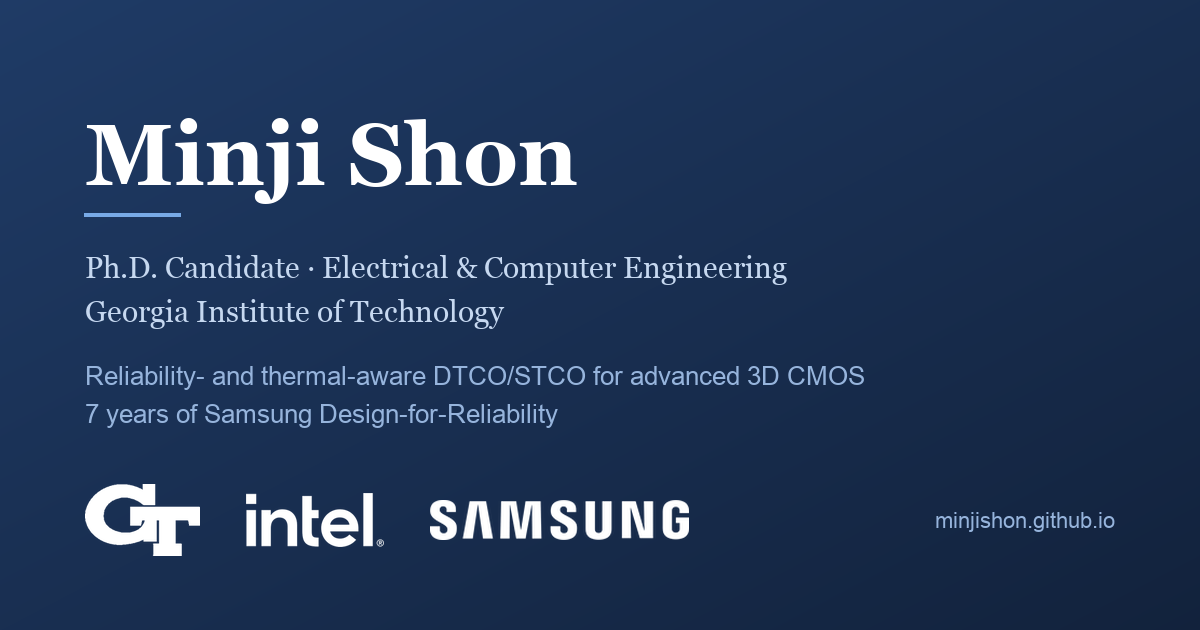
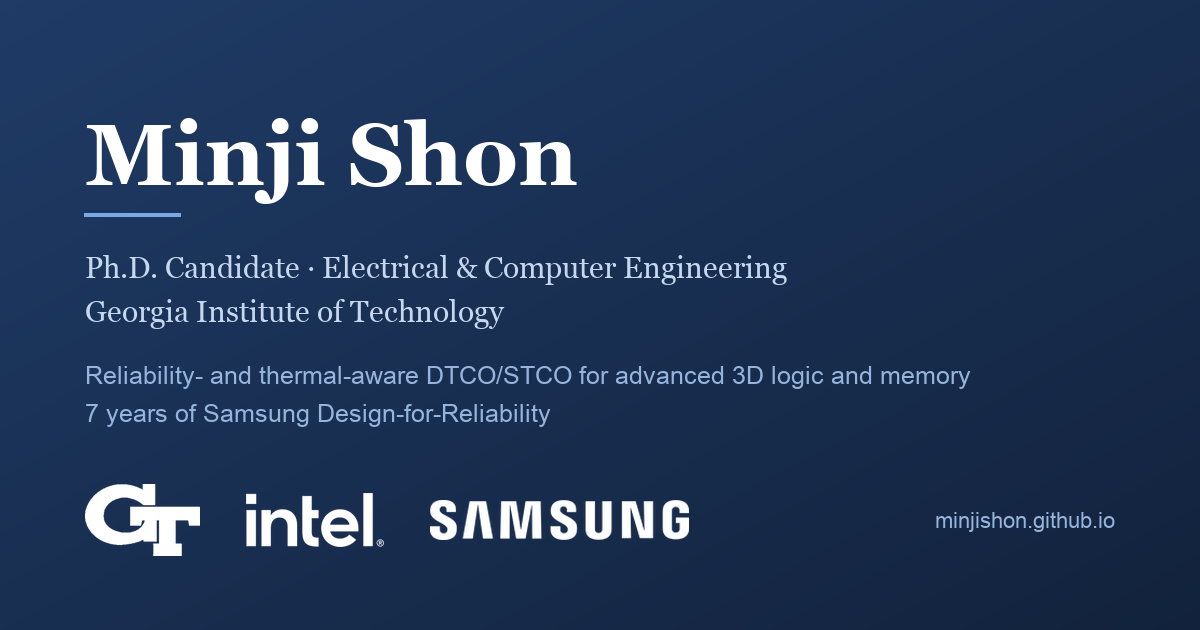
Site: add in-progress papers, align focus wording with CV
- publications.html: add MATRIX-A5 (JXCDC, under review) and the DeepSim
  electro-thermal paper (IRPS'27, in preparation), using the previously unused
  .badge-prep style. Existing entries renumbered, which now makes the site's
  reference keys match the CV's exactly (L1-L4, F1-F4, R1-R3).
- 'advanced 3D CMOS' -> 'advanced 3D logic and memory' to match the CV summary;
  kept '(CFET, GAA nanosheet)' in the meta tags as search keywords.
- Regenerated og-card.png for the new wording.

Changed region(s): [[0.0617, 0.573, 0.8017, 0.6937]]

diff --git a/publications.html b/publications.html
@@ -62,6 +62,15 @@
       <div class="pub" id="L1">
         <div class="pub-id">[L1]</div>
         <div>
+          <div class="pub-title">MATRIX-A5: An Open-Source CFET PDK with CfetFlex Track-Mixing Libraries for RTL-to-GDS DTCO<span class="badge badge-prep">Under review</span></div>
+          <div class="pub-authors"><span class="me">Shon, M.</span>*, Lim, S.*, et al., Yu, S.</div>
+          <div class="pub-venue"><span class="venue-name">JXCDC</span>, 2026</div>
+        </div>
+      </div>
+
+      <div class="pub" id="L2">
+        <div class="pub-id">[L2]</div>
+        <div>
           <div class="pub-title">DTCO of Multi-Tier CFETs: Ultimate Logic and SRAM Scaling of A5 Technology and Beyond</div>
           <div class="pub-authors"><span class="me">Shon, M.</span>*, Lim, S.*, Yu, S.</div>
           <div class="pub-venue"><span class="venue-name">IEDM</span>, 2025</div>
@@ -71,8 +80,8 @@
         </div>
       </div>
 
-      <div class="pub" id="L2">
-        <div class="pub-id">[L2]</div>
+      <div class="pub" id="L3">
+        <div class="pub-id">[L3]</div>
         <div>
           <div class="pub-title">3-Tier SRAM Complementary FET (CFET) High Density (HD) Cell Design at A5 Node</div>
           <div class="pub-authors">Lim, S., <span class="me">Shon, M.</span>, Yu, S.</div>
@@ -83,8 +92,8 @@
         </div>
       </div>
 
-      <div class="pub" id="L3">
-        <div class="pub-id">[L3]</div>
+      <div class="pub" id="L4">
+        <div class="pub-id">[L4]</div>
         <div>
           <div class="pub-title">3D Digital Compute-in-Memory Benchmark with A5 CFET Technology: An Extension to Look-up-Table Based Design</div>
           <div class="pub-authors">Lee, J.*, <span class="me">Shon, M.</span>*, et al., Yu, S.</div>
@@ -159,6 +168,15 @@
       <div class="pub" id="R1">
         <div class="pub-id">[R1]</div>
         <div>
+          <div class="pub-title">AI-Accelerated and Layout-Resolved Electro-Thermal Analysis for Multi-Tier CFET<span class="badge badge-prep">In preparation</span></div>
+          <div class="pub-authors"><span class="me">Shon, M.</span>*, McClellan, C. J.*, et al., Yu, S.</div>
+          <div class="pub-venue"><span class="venue-name">IRPS</span>, 2027</div>
+        </div>
+      </div>
+
+      <div class="pub" id="R2">
+        <div class="pub-id">[R2]</div>
+        <div>
           <div class="pub-title">Self-Heating in GAA Nanosheet FETs with Integrated Back Side Power Delivery Network: Device to Circuit Electro-Thermal Analysis and Implications</div>
           <div class="pub-authors">Dutta, R.*, <span class="me">Shon, M.</span>*, et al., Datta, S.</div>
           <div class="pub-venue"><span class="venue-name">IRPS</span>, 2026</div>
@@ -168,8 +186,8 @@
         </div>
       </div>
 
-      <div class="pub" id="R2">
-        <div class="pub-id">[R2]</div>
+      <div class="pub" id="R3">
+        <div class="pub-id">[R3]</div>
         <div>
           <div class="pub-title">Aging-Aware Design Verification Methods Under Real Product Operating Conditions</div>
           <div class="pub-authors">Shim, H., Jo, J., Kim, Y., Jeong, B., <span class="me">Shon, M.</span>, et al., Pae, S.</div>

diff --git a/index.html b/index.html
@@ -4,14 +4,14 @@
 <meta charset="utf-8">
 <meta name="viewport" content="width=device-width, initial-scale=1">
 <title>Minji Shon — Ph.D. Candidate, ECE @ Georgia Tech</title>
-<meta name="description" content="Minji Shon — Ph.D. candidate in ECE at Georgia Tech working on reliability- and thermal-aware DTCO/STCO for advanced 3D CMOS (CFET, GAA nanosheet), with 7 years of Samsung Design-for-Reliability experience.">
+<meta name="description" content="Minji Shon — Ph.D. candidate in ECE at Georgia Tech working on reliability- and thermal-aware DTCO/STCO for advanced 3D logic and memory (CFET, GAA nanosheet), with 7 years of Samsung Design-for-Reliability experience.">
 <meta name="author" content="Minji Shon">
 <link rel="canonical" href="https://minjishon.github.io/">
 
 <!-- Open Graph -->
 <meta property="og:type" content="website">
 <meta property="og:title" content="Minji Shon — Ph.D. Candidate, ECE @ Georgia Tech">
-<meta property="og:description" content="Reliability- and thermal-aware DTCO/STCO for advanced 3D CMOS (CFET, GAA nanosheet). Ph.D. candidate at Georgia Tech; 7 years of Samsung Design-for-Reliability.">
+<meta property="og:description" content="Reliability- and thermal-aware DTCO/STCO for advanced 3D logic and memory (CFET, GAA nanosheet). Ph.D. candidate at Georgia Tech; 7 years of Samsung Design-for-Reliability.">
 <meta property="og:url" content="https://minjishon.github.io/">
 <meta property="og:image" content="https://minjishon.github.io/assets/og-card.png">
 <meta property="og:image:width" content="1200">
@@ -34,7 +34,7 @@
   "image": "https://minjishon.github.io/assets/Minji_Shon.jpg",
   "jobTitle": "Ph.D. Candidate, Electrical and Computer Engineering",
   "email": "mailto:mshon6@gatech.edu",
-  "description": "Ph.D. candidate in ECE at Georgia Tech working on reliability- and thermal-aware DTCO/STCO for advanced 3D CMOS, with seven years of Samsung Design-for-Reliability experience.",
+  "description": "Ph.D. candidate in ECE at Georgia Tech working on reliability- and thermal-aware DTCO/STCO for advanced 3D logic and memory, with seven years of Samsung Design-for-Reliability experience.",
   "affiliation": {
     "@type": "CollegeOrUniversity",
     "name": "Georgia Institute of Technology",
@@ -99,7 +99,7 @@
         <h1>Minji Shon</h1>
         <p class="tagline">
           Ph.D. candidate in Electrical &amp; Computer Engineering at Georgia Tech, working on
-          <strong>reliability- and thermal-aware DTCO/STCO</strong> for advanced 3D CMOS — backed by
+          <strong>reliability- and thermal-aware DTCO/STCO</strong> for advanced 3D logic and memory — backed by
           <strong>7 years of Samsung Design-for-Reliability</strong> across 14 nm to 3 nm nodes.
         </p>
 

diff --git a/make_og_card.py b/make_og_card.py
@@ -22,7 +22,7 @@ SANS    = "/System/Library/Fonts/Supplemental/Arial.ttf"
 NAME      = "Minji Shon"
 SUBTITLE  = ["Ph.D. Candidate · Electrical & Computer Engineering",
              "Georgia Institute of Technology"]
-DESC      = ["Reliability- and thermal-aware DTCO/STCO for advanced 3D CMOS",
+DESC      = ["Reliability- and thermal-aware DTCO/STCO for advanced 3D logic and memory",
              "7 years of Samsung Design-for-Reliability"]
 URL       = "minjishon.github.io"
 LOGOS     = [("assets/logos/gatech.png", 72),
@@ -70,7 +70,7 @@ def main():
     # sizes calibrated against the original card's measured text widths
     f_name = ImageFont.truetype(SERIF_B, fit(SERIF_B, NAME, 497))
     f_sub  = ImageFont.truetype(SERIF,   fit(SERIF, SUBTITLE[1], 432))
-    f_desc = ImageFont.truetype(SANS,    fit(SANS, DESC[0], 825))
+    f_desc = ImageFont.truetype(SANS,    fit(SANS, DESC[0], 900))
     f_url  = ImageFont.truetype(SANS,    fit(SANS, URL, 189))
 
     d.text((MARGIN, 105), NAME, font=f_name, fill=WHITE, anchor="la")
